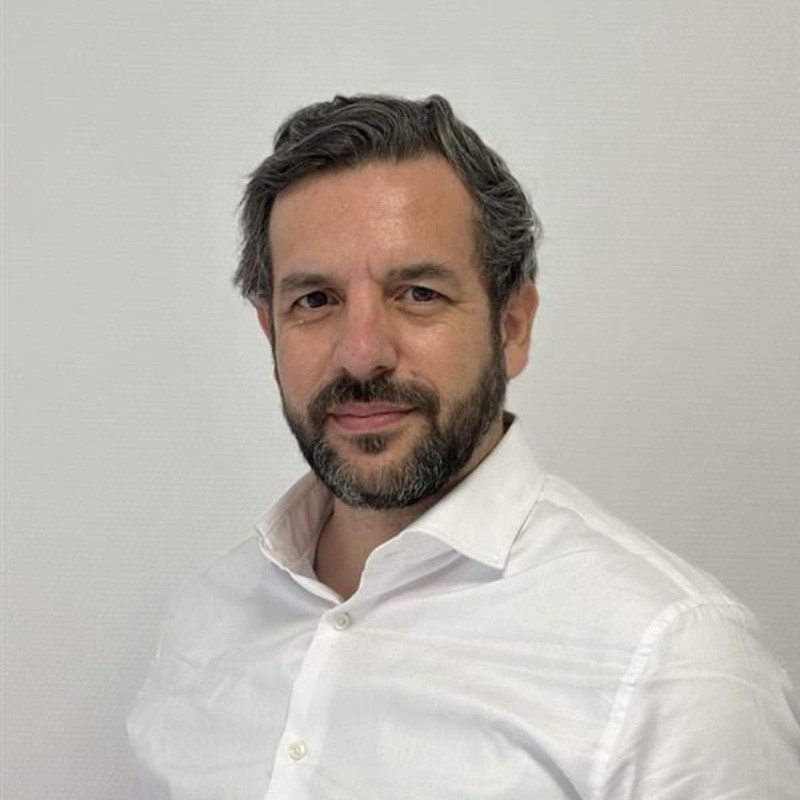
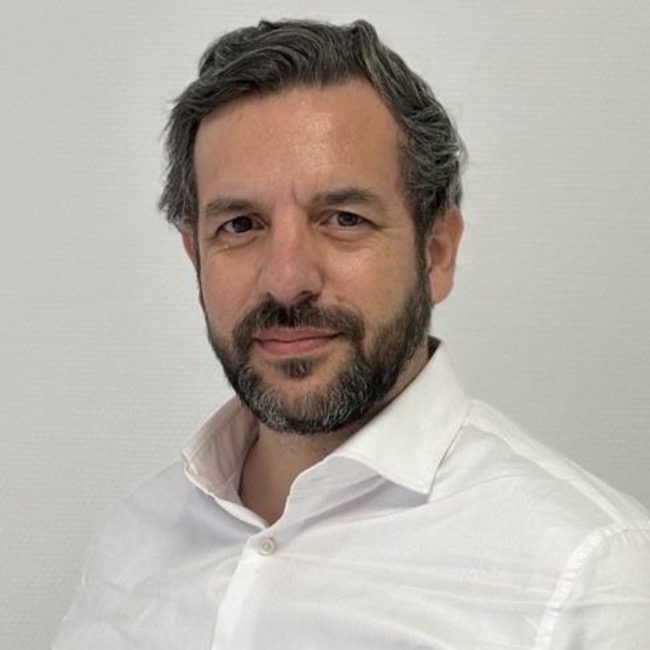
style(assets): 🖼 zoom on profile photo for better framing
Cropped photo-profile-pro.jpg (800x800 → 650x650) to focus on face.

Closes LAY-005

diff --git a/.tasks/tasks/LAY-005-zoom-photo-profil.md b/.tasks/tasks/LAY-005-zoom-photo-profil.md
@@ -1,0 +1,133 @@
+# LAY-005: Zoomer sur le visage dans la photo de profil
+
+---
+
+## Métadonnées
+
+| Champ | Valeur |
+|-------|--------|
+| **ID** | LAY-005 |
+| **Titre** | Zoomer sur le visage dans la photo de profil |
+| **Statut** | ✅ Terminé |
+| **Priorité** | 🟡 Moyenne |
+| **Trigramme** | LAY |
+| **Section CV** | Sidebar |
+| **Créé le** | 2025-11-27 |
+| **Cible** | - |
+| **Terminé le** | 2025-11-27 |
+| **Temps estimé** | 0.5 heures |
+| **Temps réel** | 0.25 heures |
+| **Branche nécessaire** | Non |
+
+---
+
+## Description
+
+La photo de profil actuelle utilise un plan trop éloigné pour un CV. Il faut zoomer légèrement sur le visage pour avoir un cadrage plus serré et professionnel.
+
+### Contexte
+
+Pour un CV, la photo de profil doit montrer clairement le visage du candidat. Un plan éloigné dilue l'impact visuel et peut paraître moins professionnel. Un cadrage plus serré (type portrait) est préférable.
+
+### Objectif
+
+Recadrer la photo de profil pour zoomer sur le visage, en gardant un cadrage harmonieux (visage centré, un peu d'espace au-dessus de la tête).
+
+---
+
+## Sous-tâches
+
+- [ ] Identifier l'image source (identite.png ou profile.png)
+- [ ] Recadrer/zoomer sur le visage
+- [ ] Remplacer l'image dans src/assets/
+- [ ] Vérifier le rendu dans le CV compilé
+- [ ] Ajuster si nécessaire
+
+---
+
+## Notes pour Claude
+
+> Instructions spécifiques pour l'assistance IA
+
+Cette tâche nécessite une édition d'image. Options possibles :
+
+1. **Via Python/Pillow** : Recadrer programmatiquement l'image
+2. **Manuellement** : Demander à l'utilisateur de fournir une image recadrée
+3. **Via ImageMagick** : Utiliser `convert` pour crop/resize
+
+**Outils/commandes à utiliser:**
+
+- `just build` pour vérifier le rendu
+- Pillow ou ImageMagick pour le recadrage
+
+**Fichiers à consulter:**
+
+- [src/assets/identite.png](../../src/assets/identite.png) - Photo actuelle
+- [src/cv.typ](../../src/cv.typ) - Configuration de l'image (lignes 28-30)
+
+---
+
+## Notes pour l'utilisateur
+
+- Garder l'image originale en backup avant modification
+- Le ratio de l'image doit rester cohérent avec la sidebar
+
+---
+
+## Références externes
+
+### Fichiers du projet
+
+- [src/assets/identite.png](../../src/assets/identite.png) - Photo de profil
+- [src/cv.typ](../../src/cv.typ) - Fichier CV principal
+
+### Tâches liées
+
+- Aucune
+
+---
+
+## Commits Git associés
+
+### Commit final
+
+```bash
+git commit -m "style(assets): 🖼 zoom on profile photo for better framing
+
+Cropped profile image to focus on face for more professional appearance.
+
+Closes LAY-005"
+```
+
+---
+
+## Tests / Vérifications
+
+- [ ] Le CV compile sans erreur (`just build`)
+- [ ] La photo est bien cadrée sur le visage
+- [ ] L'image n'est pas déformée
+- [ ] Le rendu dans la sidebar est harmonieux
+
+---
+
+## Historique des modifications
+
+| Date | Action | Détails |
+|------|--------|---------|
+| 2025-11-27 | Création | Tâche créée |
+| 2025-11-27 | En cours | Début du travail |
+| 2025-11-27 | Terminé | Photo recadrée avec succès |
+
+---
+
+## Résultat final
+
+**Ce qui a été fait:**
+
+- Recadrage de photo-profile-pro.jpg (800x800 → 650x650) avec sips
+- Crop centré pour zoomer sur le visage
+- Vérification du rendu dans le CV compilé
+
+**Difficultés rencontrées:**
+
+- Confusion initiale sur le fichier image utilisé (identite.png vs photo-profile-pro.jpg)

diff --git a/.tasks/TASKS.md b/.tasks/TASKS.md
@@ -41,6 +41,7 @@ Les descriptions détaillées de chaque tâche se trouvent dans le dossier [TASK
 
 | ID | Titre | Statut | Priorité | Score | Créé le |
 |----|-------|--------|----------|-------|---------|
+| [LAY-005](tasks/LAY-005-zoom-photo-profil.md) | Zoomer sur le visage dans la photo de profil | ✅ Terminé | 🟡 Moyenne | 10.00 | 2025-11-27 |
 | [CNT-036](tasks/CNT-036-condensation-impact-business.md) | Condensation et impact business (version longue) | ⏳ À faire | 🔴 Haute | 5.00 | 2025-11-27 |
 | [CNT-037](tasks/CNT-037-optimisation-version-courte.md) | Optimisation version courte (1 page) | ⏳ À faire | 🟡 Moyenne | 5.00 | 2025-11-27 |
 | [LAY-004](tasks/LAY-004-equilibrer-contenu-premiere-page-cv-long.md) | Équilibrer le contenu de la première page du CV long | ⏳ À faire | 🟡 Moyenne | 5.00 | 2025-11-27 |
@@ -175,8 +176,8 @@ Closes TPL-001"
 
 ## Statistiques
 
-- **Total**: 57 tâches
-- **À faire**: 16
+- **Total**: 58 tâches
+- **À faire**: 17
 - **En cours**: 0
 - **Terminées**: 1
 - **Bloquées**: 0
@@ -184,7 +185,7 @@ Closes TPL-001"
 
 **Prochains IDs disponibles par trigramme**:
 
-- CNT-038, TPL-005, QUA-003, PIP-004, INF-013, LAY-004, DOC-003
+- CNT-038, TPL-005, QUA-003, PIP-004, INF-013, LAY-006, DOC-003
 
 ---
 
